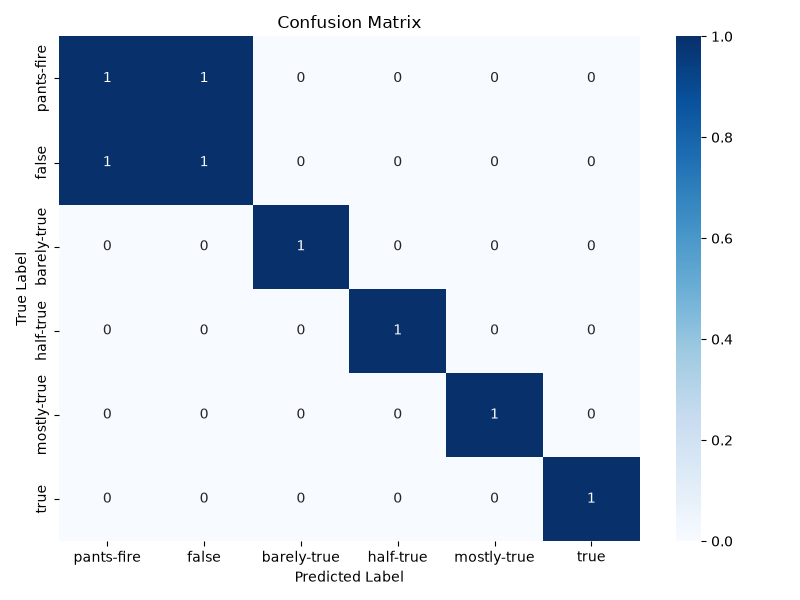
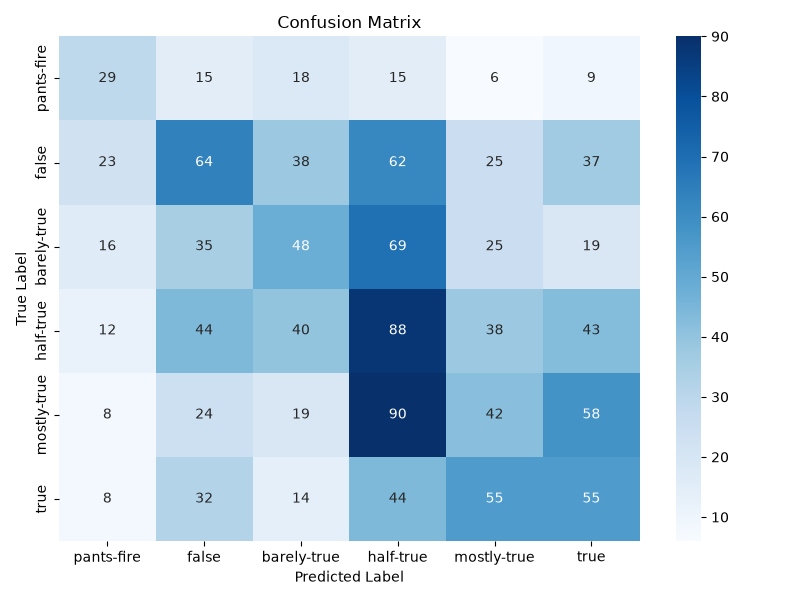
fix: stop the test suite overwriting the committed evaluation artifacts
evaluate_predictions() took an output_json parameter but wrote two of its three
outputs to hardcoded module-level paths. tests/test_metrics.py redirected the
JSON to a scratch file and assumed that was enough, so every run of the suite
replaced results/classification_report.txt and plots/confusion_matrix.png with
the output of its 8-sample toy fixture.

This had already happened before those files were committed. Commit 5a8127c
recorded them as "0.2573 accuracy, 0.2601 macro F1, n=1267" while the files it
actually committed reported 0.75 accuracy on n=8, and the committed confusion
matrix was a near-perfect diagonal -- an image advertising a flawless classifier
in a repository whose headline result is 25.7%. That message was wrong about its
own contents. This commit is the correction.

Recovery used no new measurement. results/evaluation_metrics.json was never
redirected and still held the genuine 6x6 matrix, and a confusion matrix fully
determines the multiset of (true, predicted) pairs, so y_true/y_pred were
reconstructed from it and the artifacts regenerated. The reconstruction
reproduces all seven recorded metrics to four decimal places and round-trips the
matrix exactly; the regenerated report shows n=1267, accuracy 0.26 and per-class
F1 from 0.19 to 0.31, matching the figures recorded when the model was evaluated.

Fixes, so this cannot recur:

  - evaluate_predictions() takes results_dir and plots_dir. All three outputs
    are now under caller control.
[…]

diff --git a/evaluation.py b/evaluation.py
@@ -1,8 +1,15 @@
 import json
 import os
 
-import matplotlib.pyplot as plt
-import seaborn as sns
+import matplotlib
+
+# These plots are only ever written to disk. Selecting the non-interactive
+# backend before pyplot is imported keeps that true on a headless CI runner and
+# stops matplotlib reaching for Tk, which made the suite fail intermittently.
+matplotlib.use("Agg")
+
+import matplotlib.pyplot as plt  # noqa: E402
+import seaborn as sns  # noqa: E402
 from sklearn.metrics import (
     accuracy_score,
     classification_report,
@@ -14,6 +21,7 @@ from sklearn.metrics import (
 
 RESULTS_DIR = "results"
 PLOTS_DIR = "plots"
+DEFAULT_METRICS_JSON = os.path.join(RESULTS_DIR, "evaluation_metrics.json")
 
 CLASS_NAMES = ["pants-fire", "false", "barely-true", "half-true", "mostly-true", "true"]
 
@@ -28,13 +36,24 @@ def plot_confusion_matrix(y_true, y_pred, output_path="plots/confusion_matrix.pn
     plt.savefig(output_path)
     plt.close()
 
-def evaluate_predictions(y_true, y_pred, output_json="results/evaluation_metrics.json"):
+def evaluate_predictions(
+    y_true,
+    y_pred,
+    output_json=DEFAULT_METRICS_JSON,
+    results_dir=RESULTS_DIR,
+    plots_dir=PLOTS_DIR,
+):
     """
     Evaluates predictions for a 6-class problem and saves metrics to JSON.
+
+    output_json, results_dir and plots_dir are all parameters because this
+    function writes three files, not one. Callers that redirect only the JSON
+    used to overwrite the committed classification report and confusion matrix
+    with whatever data they passed in.
     """
-    os.makedirs(RESULTS_DIR, exist_ok=True)
-    os.makedirs(PLOTS_DIR, exist_ok=True)
-    
+    os.makedirs(results_dir, exist_ok=True)
+    os.makedirs(plots_dir, exist_ok=True)
+
     metrics = {
         "Accuracy": round(accuracy_score(y_true, y_pred), 4),
         "Macro_Precision": round(precision_score(y_true, y_pred, average='macro', zero_division=0), 4),
@@ -59,10 +78,10 @@ def evaluate_predictions(y_true, y_pred, output_json="results/evaluation_metrics
         
     # Save the classification report as a text file for easy reading
     cr_text = classification_report(y_true, y_pred, target_names=CLASS_NAMES, zero_division=0)
-    with open(os.path.join(RESULTS_DIR, "classification_report.txt"), "w") as f:
+    with open(os.path.join(results_dir, "classification_report.txt"), "w") as f:
         f.write(cr_text)
-        
+
     # Generate and save confusion matrix plot
-    plot_confusion_matrix(y_true, y_pred, os.path.join(PLOTS_DIR, "confusion_matrix.png"))
+    plot_confusion_matrix(y_true, y_pred, os.path.join(plots_dir, "confusion_matrix.png"))
         
     return results

diff --git a/tests/test_metrics.py b/tests/test_metrics.py
@@ -3,21 +3,59 @@ import os
 from evaluation import evaluate_predictions
 
 
-def test_metrics_generation():
+def test_metrics_generation(tmp_path):
     y_true = [0, 1, 2, 3, 4, 5, 0, 1]
     y_pred = [0, 1, 2, 3, 4, 5, 1, 0]
-    
-    output_file = "tests/test_metrics.json"
-    os.makedirs("tests", exist_ok=True)
-    
-    results = evaluate_predictions(y_true, y_pred, output_file)
-    
+
+    # Every output path is redirected into tmp_path. This test used to redirect
+    # only the JSON, so its 8-sample toy data overwrote the committed
+    # classification report and confusion matrix -- artifacts measured on
+    # n=1267 -- with a near-perfect 8-sample result.
+    results_dir = tmp_path / "results"
+    plots_dir = tmp_path / "plots"
+    output_file = results_dir / "evaluation_metrics.json"
+
+    results = evaluate_predictions(
+        y_true,
+        y_pred,
+        output_json=str(output_file),
+        results_dir=str(results_dir),
+        plots_dir=str(plots_dir),
+    )
+
     assert "metrics" in results
     assert "confusion_matrix" in results
     assert "classification_report" in results
-    
+
     assert "Macro_F1" in results["metrics"]
     assert "Weighted_F1" in results["metrics"]
-    
-    if os.path.exists(output_file):
-        os.remove(output_file)
+
+    # The side-effect files land beside the JSON, not in the repository.
+    assert output_file.exists()
+    assert (results_dir / "classification_report.txt").exists()
+    assert (plots_dir / "confusion_matrix.png").exists()
+
+
+def test_evaluate_predictions_does_not_write_into_the_repo(tmp_path):
+    """Regression guard for the artifact-clobbering bug.
+
+    Fails if the default paths are ever reintroduced into a caller that means
+    to write elsewhere.
+    """
+    repo_root = os.path.dirname(os.path.dirname(os.path.abspath(__file__)))
+    tracked = [
+        os.path.join(repo_root, "results", "classification_report.txt"),
+        os.path.join(repo_root, "plots", "confusion_matrix.png"),
+    ]
+    before = {p: os.path.getmtime(p) for p in tracked if os.path.exists(p)}
+
+    evaluate_predictions(
+        [0, 1, 2, 3, 4, 5],
+        [0, 1, 2, 3, 4, 5],
+        output_json=str(tmp_path / "m.json"),
+        results_dir=str(tmp_path / "r"),
+        plots_dir=str(tmp_path / "p"),
+    )
+
+    for path, mtime in before.items():
+        assert os.path.getmtime(path) == mtime, f"{path} was modified by the test suite"

diff --git a/train.py b/train.py
@@ -1,7 +1,11 @@
 import json
 import os
 
-import matplotlib.pyplot as plt
+import matplotlib
+
+matplotlib.use("Agg")  # training plots are saved, never shown
+
+import matplotlib.pyplot as plt  # noqa: E402
 import pandas as pd
 import torch
 from torch.optim import AdamW
